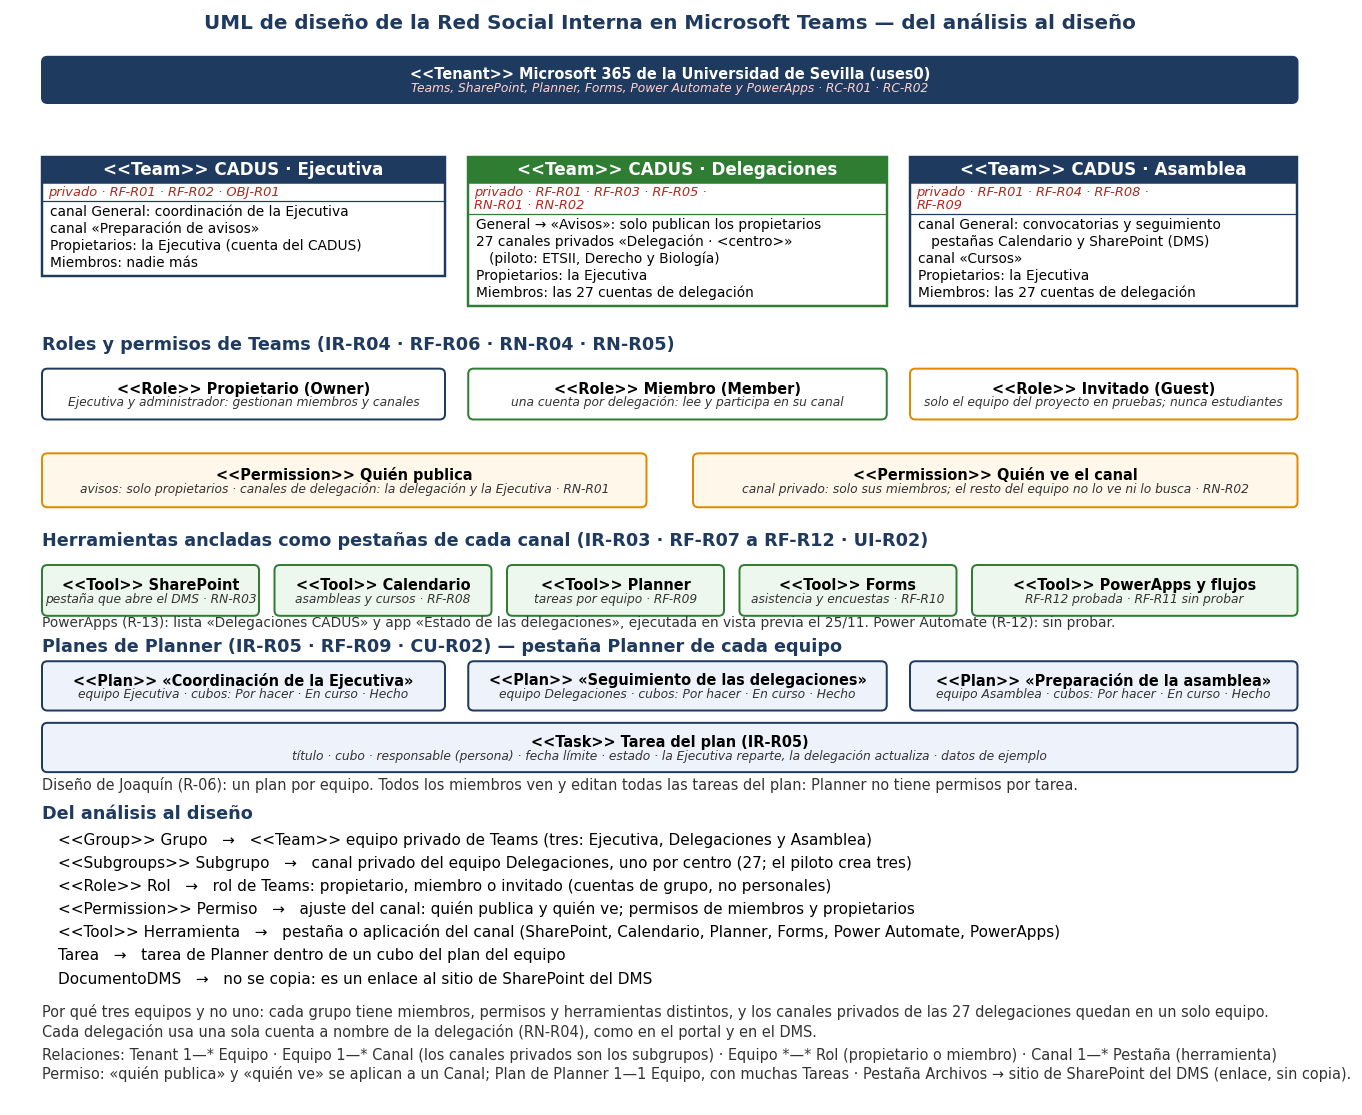
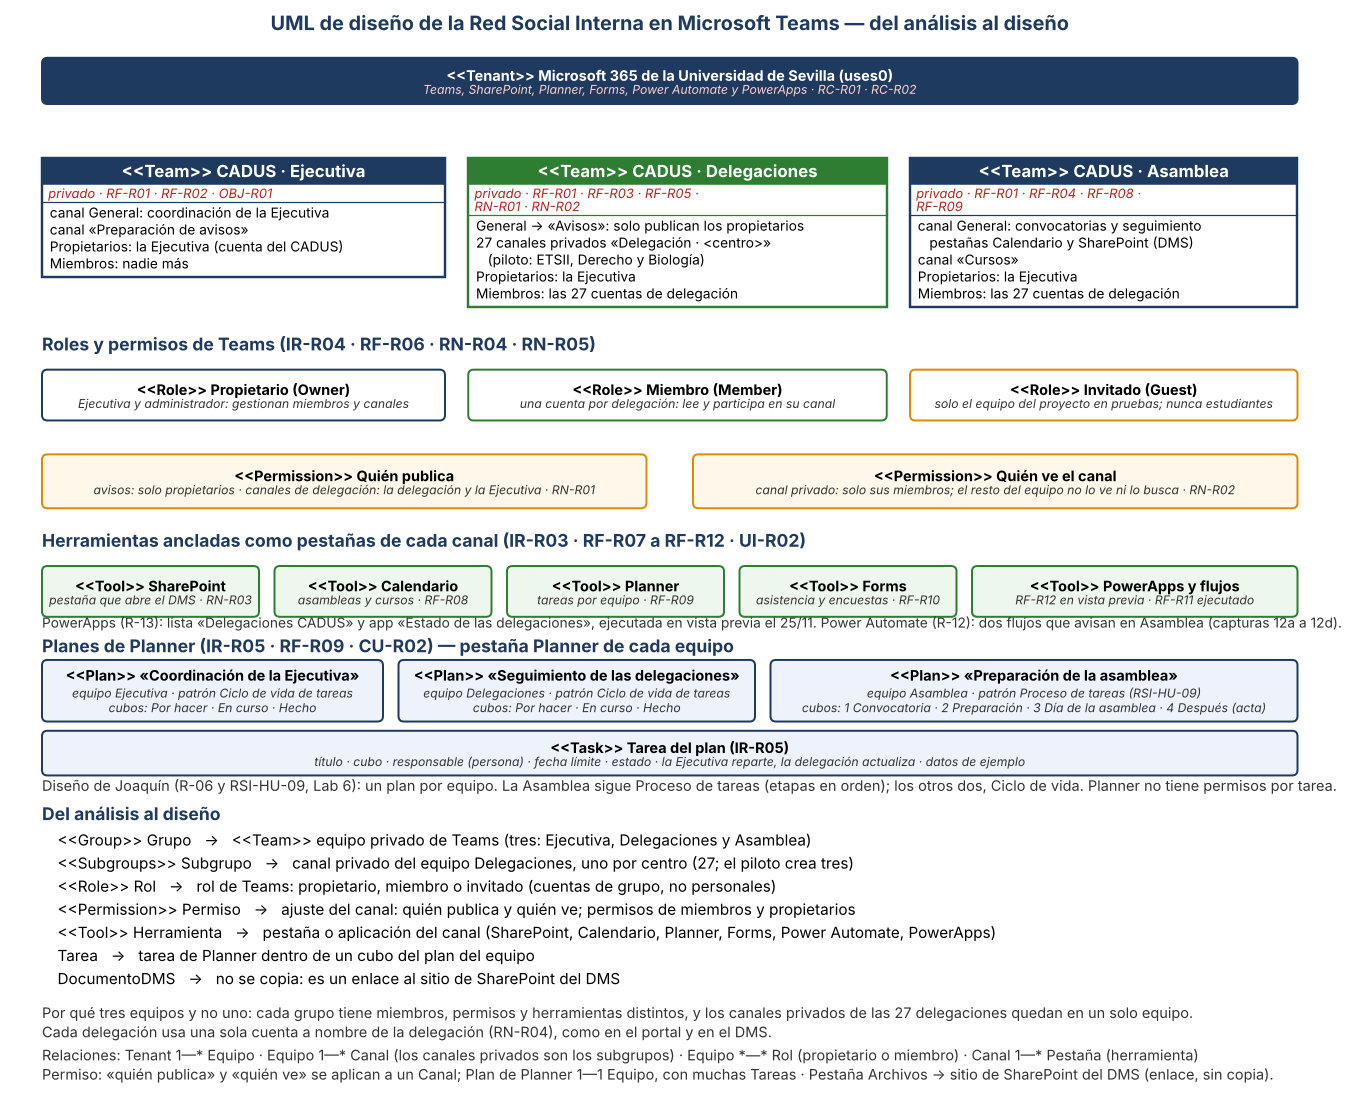
docs(redsocial): UML de diseño con el patrón de cada plan (R-14a), revisión del caso de negocio (RSI-HU-01) y estado de PowerApps (RSI-HU-08)
Claude-Session: https://claude.ai/code/session_013MdPG1EF5hqTXL7vDTncxB

diff --git a/scripts/redsocial/diagramas_rsi.py b/scripts/redsocial/diagramas_rsi.py
@@ -50,6 +50,14 @@ def analisis():
     guardar(fig, "uml-rsi-analisis.png")
 
 
+def plan_caja(ax, x, w, titulo, linea1, linea2, y=842, h=80):
+    """Caja de un plan de Planner con dos líneas de detalle (patrón y cubos)."""
+    caja(ax, x, y, w, h, "", fc="#eef2fb", ec=AZUL)
+    ax.text(x + w / 2, y + 20, titulo, ha="center", va="center", fontsize=9.5, fontweight="bold", zorder=3)
+    ax.text(x + w / 2, y + 43, linea1, ha="center", va="center", fontsize=8, color="#333", fontstyle="italic", zorder=3)
+    ax.text(x + w / 2, y + 62, linea2, ha="center", va="center", fontsize=8, color="#333", fontstyle="italic", zorder=3)
+
+
 def diseno():
     fig, ax = lienzo(1700, 1420)
     ax.text(850, 24, "UML de diseño de la Red Social Interna en Microsoft Teams — del análisis al diseño", ha="center", fontsize=13, fontweight="bold", color=AZUL)
@@ -71,16 +79,16 @@ def diseno():
             ("<<Tool>> Calendario", "asambleas y cursos · RF-R08", 340),
             ("<<Tool>> Planner", "tareas por equipo · RF-R09", 640),
             ("<<Tool>> Forms", "asistencia y encuestas · RF-R10", 940),
-            ("<<Tool>> PowerApps y flujos", "RF-R12 probada · RF-R11 sin probar", 1240)]
+            ("<<Tool>> PowerApps y flujos", "RF-R12 en vista previa · RF-R11 ejecutado", 1240)]
     for t, s, x in herr:
         caja(ax, x, 720, 280 if x < 1240 else 420, 66, t, s, fc="#eef7ee", ec=VERDE, subcolor="#333")
-    ax.text(40, 800, "PowerApps (R-13): lista «Delegaciones CADUS» y app «Estado de las delegaciones», ejecutada en vista previa el 25/11. Power Automate (R-12): sin probar.", fontsize=9, color="#333")
+    ax.text(40, 800, "PowerApps (R-13): lista «Delegaciones CADUS» y app «Estado de las delegaciones», ejecutada en vista previa el 25/11. Power Automate (R-12): dos flujos que avisan en Asamblea (capturas 12a a 12d).", fontsize=9, color="#333")
     ax.text(40, 832, "Planes de Planner (IR-R05 · RF-R09 · CU-R02) — pestaña Planner de cada equipo", fontsize=11.5, fontweight="bold", color=AZUL)
-    caja(ax, 40, 845, 520, 64, "<<Plan>> «Coordinación de la Ejecutiva»", "equipo Ejecutiva · cubos: Por hacer · En curso · Hecho", fc="#eef2fb", ec=AZUL, subcolor="#333")
-    caja(ax, 590, 845, 540, 64, "<<Plan>> «Seguimiento de las delegaciones»", "equipo Delegaciones · cubos: Por hacer · En curso · Hecho", fc="#eef2fb", ec=AZUL, subcolor="#333")
-    caja(ax, 1160, 845, 500, 64, "<<Plan>> «Preparación de la asamblea»", "equipo Asamblea · cubos: Por hacer · En curso · Hecho", fc="#eef2fb", ec=AZUL, subcolor="#333")
-    caja(ax, 40, 925, 1620, 64, "<<Task>> Tarea del plan (IR-R05)", "título · cubo · responsable (persona) · fecha límite · estado · la Ejecutiva reparte, la delegación actualiza · datos de ejemplo", fc="#eef2fb", ec=AZUL, subcolor="#333")
-    ax.text(40, 1012, "Diseño de Joaquín (R-06): un plan por equipo. Todos los miembros ven y editan todas las tareas del plan: Planner no tiene permisos por tarea.", fontsize=9.5, color="#333")
+    plan_caja(ax, 40, 440, "<<Plan>> «Coordinación de la Ejecutiva»", "equipo Ejecutiva · patrón Ciclo de vida de tareas", "cubos: Por hacer · En curso · Hecho")
+    plan_caja(ax, 500, 460, "<<Plan>> «Seguimiento de las delegaciones»", "equipo Delegaciones · patrón Ciclo de vida de tareas", "cubos: Por hacer · En curso · Hecho")
+    plan_caja(ax, 980, 680, "<<Plan>> «Preparación de la asamblea»", "equipo Asamblea · patrón Proceso de tareas (RSI-HU-09)", "cubos: 1 Convocatoria · 2 Preparación · 3 Día de la asamblea · 4 Después (acta)")
+    caja(ax, 40, 934, 1620, 58, "<<Task>> Tarea del plan (IR-R05)", "título · cubo · responsable (persona) · fecha límite · estado · la Ejecutiva reparte, la delegación actualiza · datos de ejemplo", fc="#eef2fb", ec=AZUL, subcolor="#333")
+    ax.text(40, 1012, "Diseño de Joaquín (R-06 y RSI-HU-09, Lab 6): un plan por equipo. La Asamblea sigue Proceso de tareas (etapas en orden); los otros dos, Ciclo de vida. Planner no tiene permisos por tarea.", fontsize=9.5, color="#333")
     ax.text(40, 1050, "Del análisis al diseño", fontsize=11.5, fontweight="bold", color=AZUL)
     filas = [("<<Group>> Grupo", "→", "<<Team>> equipo privado de Teams (tres: Ejecutiva, Delegaciones y Asamblea)"),
              ("<<Subgroups>> Subgrupo", "→", "canal privado del equipo Delegaciones, uno por centro (27; el piloto crea tres)"),

diff --git a/docs/redsocial/pruebas.md b/docs/redsocial/pruebas.md
@@ -21,3 +21,19 @@ Registro de la configuración del piloto y de las pruebas con cuentas distintas.
 |---|---|---|---|
 | 21/11/2026 | Joaquín, con su cuenta | En CADUS · Delegaciones solo ve «Avisos» y su propio canal privado, no los de las otras delegaciones (captura 05-vista-miembro.jpg) | OK: ve «Avisos» y «Delegación · Biología»; no aparecen «Delegación · ETSII» ni «Delegación · Derecho». Joaquín es propietario del equipo, pero un canal privado solo lo ven sus miembros, así que la prueba vale para RN-R02. |
 | 22/11/2026 | Álvaro, con su cuenta de la US como **Miembro** (no propietario) de CADUS · Delegaciones; se le bajó de Propietario para la prueba (por orden de Pablo, desde Teams) y se le volvió a subir al terminar | 1) No puede iniciar una conversación en «Avisos». 2) Solo ve «Avisos» y el canal privado del que es miembro, no los de las otras delegaciones (capturas 05b y 05c) | OK: 1) en «Avisos» no puede publicar y Teams muestra «Solo los moderadores del canal pueden publicar en este canal.» (RN-R01, captura 05b). 2) En la lista de canales solo ve «Avisos» y «Delegación · ETSII» (del que es miembro); no ve «Delegación · Derecho» ni «Delegación · Biología» (RN-R02, captura 05c). Las capturas no muestran el rol: la prueba se hizo con el rol de Miembro, como consta en esta fila. Álvaro vuelve a ser Propietario (comprobado en Teams el 22/11). |
+
+## Revisión del caso de negocio (RSI-HU-01)
+
+Revisión de Álvaro Martínez Ocaña (con Claude) del 26/11/2026 sobre `business-case.md` (versión del 22/11/2026, autor Pablo, con el párrafo de Planner del 24/11). Se comprobó cada afirmación sobre el CADUS contra `docs/cliente/entrevista-cliente.md` y el estado del resto de la red social contra el repositorio. El orden de los apartados frente a la diapositiva 11 del Lab 5 no se pudo comprobar con el texto del PDF (las diapositivas son imágenes); el documento sigue el índice que declara (1.1 a 1.7).
+
+| Nº | Apartado | Qué se comprobó | Resultado |
+|---|---|---|---|
+| 1 | 1.2 Situación actual | Cuenta única `dcadus@us.es`, 27 delegaciones con una cuenta por delegación, asambleas presenciales con un voto por delegación y cursos | OK: constan en la entrevista (preguntas 1 a 6 y 16). Lo que no consta (herramientas actuales, presupuesto, Teams en las cuentas de delegación) está marcado «(por confirmar)» |
+| 2 | 1.4 Drivers | «Todas las consultas con total privacidad» | OK: pregunta 9 de la entrevista |
+| 3 | 1.3 Diseño de los tableros de Planner | Coherencia con `diseno-tableros-planner.md` | OK: mismos patrones y mismos cuatro cubos del plan de la asamblea. El UML de diseño ya los recoge (26/11) |
+| 4 | Preguntas abiertas, punto 5 | «Álvaro comprobó que sus páginas de creación cargan; no que se pueda guardar y ejecutar» | **Desactualizado:** el 25/11 se guardó y ejecutó en vista previa la aplicación de PowerApps (capturas R13-01 a R13-03) y hay capturas de los dos flujos de Power Automate (12a a 12d). Propuesta: «El tenant permite guardar y ejecutar una aplicación de lienzo y flujos de Power Automate (25/11/2026); no se ha comprobado publicar la aplicación» |
+| 5 | 1.6 Riesgos, fila «No se pueden crear equipos o usar Power Automate y PowerApps» | Estado del riesgo | **Desactualizado** por lo mismo: añadir que el 25/11 se comprobó que sí se pueden usar |
+| 6 | 1.7.1 Personas, fila de Álvaro | Papel en el proyecto | **Incompleto:** además de revisar el UML, hizo la aplicación de PowerApps (R-13) y actualizó el UML de diseño (R-14a). Propuesta: «UML de análisis y de diseño; aplicación de PowerApps» |
+| 7 | Cabecera | «Revisión: pendiente de otra persona del equipo» | Cambiar a «Revisión: Álvaro Martínez Ocaña, 26/11/2026 (`pruebas.md`)» |
+
+Conclusión: el caso de negocio no afirma hechos del CADUS sin respaldo. Los puntos 4 a 7 son correcciones de estado que debe hacer su editor (Pablo).

diff --git a/docs/redsocial/powerapps-especificacion.md b/docs/redsocial/powerapps-especificacion.md
@@ -1,6 +1,6 @@
 # PowerApps de la red social (R-13) · aplicación «Estado de las delegaciones»
 
-Prueba de Álvaro del 25/11/2026 para la entrega del 29/11 (RF-R12). Es una aplicación de prueba con datos de ejemplo, en el espacio personal de Álvaro; no está publicada ni compartida.
+Prueba de Álvaro del 25/11/2026 para la entrega del 29/11 (RF-R12). Es una aplicación de prueba con datos de ejemplo, en el espacio personal de Álvaro; no está publicada. Álvaro la compartió con Marcos el 25/11/2026 para la prueba cruzada (Lab 8); la prueba de Marcos se anota en [`pruebas.md`](pruebas.md).
 
 ## Qué se hizo y se comprobó (25/11/2026, cuenta de la US de Álvaro, entorno «Productividad Personal US (default)»)
 
@@ -12,8 +12,8 @@ Conclusión: el tenant permite crear una lista de SharePoint, crear y guardar un
 
 ## Qué NO se ha comprobado
 
-- Publicar la aplicación (no se pulsó «Publicar») ni compartirla con otra cuenta.
-- Ejecutarla desde una cuenta distinta de la de Álvaro, o desde la pestaña de Teams.
+- Publicar la aplicación (no se pulsó «Publicar»).
+- Ejecutarla desde una cuenta distinta de la de Álvaro (está compartida con Marcos desde el 25/11; falta que Marcos la abra y anote el resultado), o desde la pestaña de Teams.
 - Los conectores de Planner y Teams, y cualquier flujo de Power Automate: en la cuenta de Álvaro no hay flujos, propios ni compartidos; el flujo de R-12 (Joaquín) no se ha podido probar desde su cuenta.
 - Las pantallas de la propuesta original (ficha con canal y tareas, alta y baja solo para la Ejecutiva, CU-R05 · RN-R01): la aplicación generada es la plantilla de tres pantallas de PowerApps (lista, detalle y formulario) sin personalizar ni restringir por rol.
 
@@ -28,6 +28,6 @@ Explicar las tres capturas una a una (lista, aplicación guardada, aplicación e
 
 ## Pendiente
 
-1. Prueba cruzada por otra persona (Marcos o Pablo): abrir la aplicación con otra cuenta (hay que compartirla antes).
-2. UML actualizado con PowerApps y Power Automate (R-14, con Joaquín).
+1. Prueba cruzada de Marcos: abrir la aplicación con su cuenta (ya compartida el 25/11) y anotar el resultado, con captura, en `pruebas.md`.
+2. UML de diseño: hecho el 26/11 (R-14a): la caja de herramientas ya recogía PowerApps, y los planes de Planner llevan su patrón y los cubos del plan de la asamblea como Proceso de tareas (`scripts/redsocial/diagramas_rsi.py`, `img/uml-rsi-diseno.png`).
 3. Flujo de Power Automate (R-12): lo prueba Joaquín o lo comparte con Álvaro.
